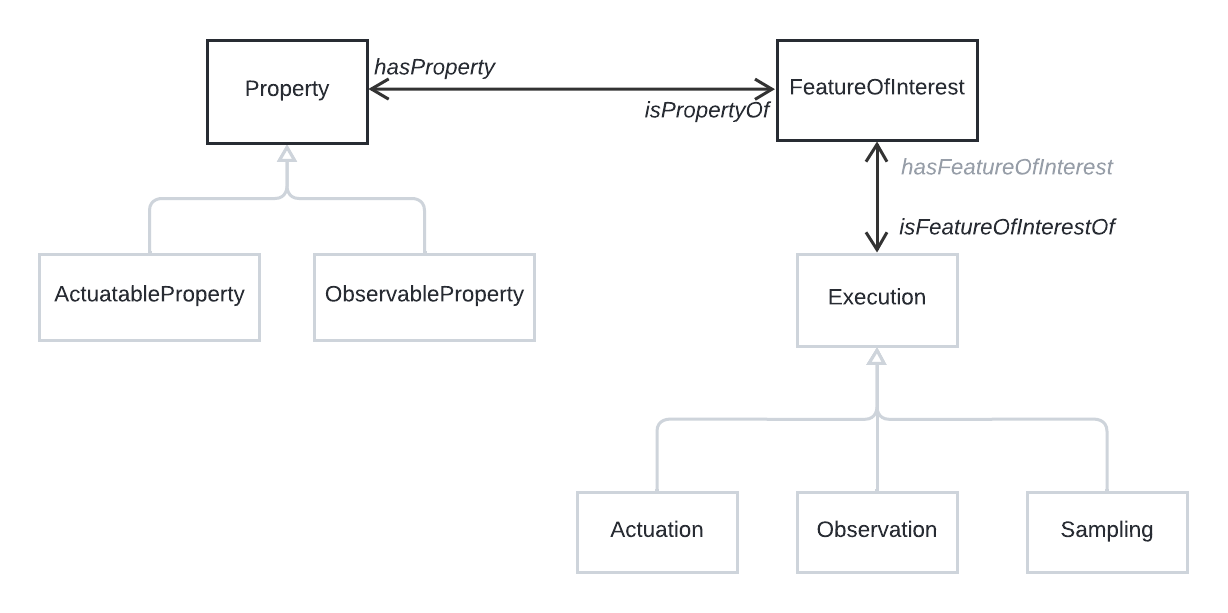
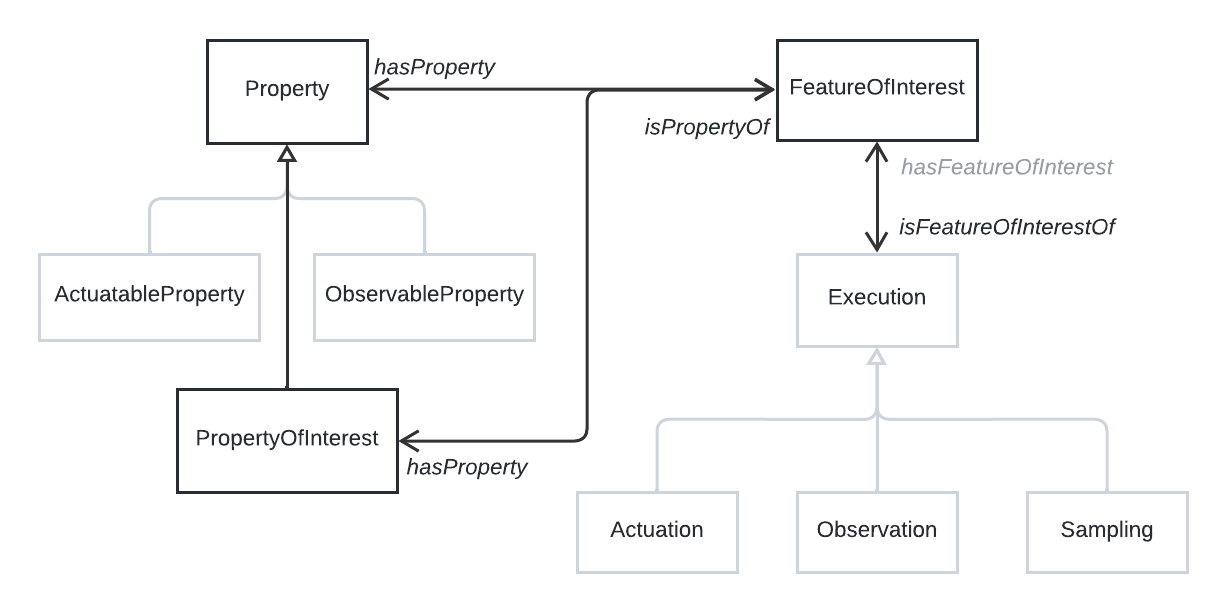
Add PropertyOfInterest to FoI diagram

diff --git a/ssn/frag/notation.html b/ssn/frag/notation.html
@@ -40,8 +40,7 @@
         </p>
         <p>
             Class and property diagrams use a notation similar to UML Class Diagrams [[uml]], with boxes for classes,
-            and
-            labelled directed connectors (associations) or class attributes for properties.
+            and labelled directed connectors (associations) or class attributes for properties.
             However the class diagrams MUST NOT be interpreted according to strict UML rules.
         </p>
         <p>
@@ -50,8 +49,14 @@
             <br>- Object properties are generally shown as association roles. Exceptions are (i) if a target class is
             unspecified (ii) to reduce clutter, in which case object properties appear as class attributes, alongside
             the datatype properties
-            <br>- Classes and properties coloured grey are included in a diagram for context, but are described in
+        </p>
+        <p>
+            Classes and properties coloured grey are included in a diagram for context, but are described in
             a different section of the document
+        </p>
+        <p>
+            Connectors with open arrowheads indicate sub-class relationships, however it should be noted that these are
+            not defined in the SOSA modules.
         </p>
         <p>
             The purpose of the diagrams is primarily to orient the reader as to how SSN properties are related to the

diff --git a/ssn/frag/Common.html b/ssn/frag/Common.html
@@ -151,7 +151,9 @@
                         <th>Range Includes</th>
                         <td>
                             <span rel="schema:rangeIncludes" resource="sosa:Property"><a
-                                    href="#SOSAProperty">sosa:Property</a></span>
+                                    href="#SOSAProperty">sosa:Property</a></span>,
+                            <span rel="schema:rangeIncludes" resource="sosa:PropertyOfInterest"><a
+                                    href="#SOSAPropertyOfInterest">sosa:PropertyOfInterest</a></span>
                         </td>
                     </tr>
                     <tr>
@@ -360,7 +362,9 @@
                         <th>Domain Includes</th>
                         <td>
                             <span rel="schema:domainIncludes" resource="sosa:Property"><a
-                                    href="#SOSAProperty">sosa:Property</a></span>
+                                    href="#SOSAProperty">sosa:Property</a></span>,
+                            <span rel="schema:rangeIncludes" resource="sosa:PropertyOfInterest"><a
+                                    href="#SOSAPropertyOfInterest">sosa:PropertyOfInterest</a></span>
                         </td>
                     </tr>
                     <tr>
